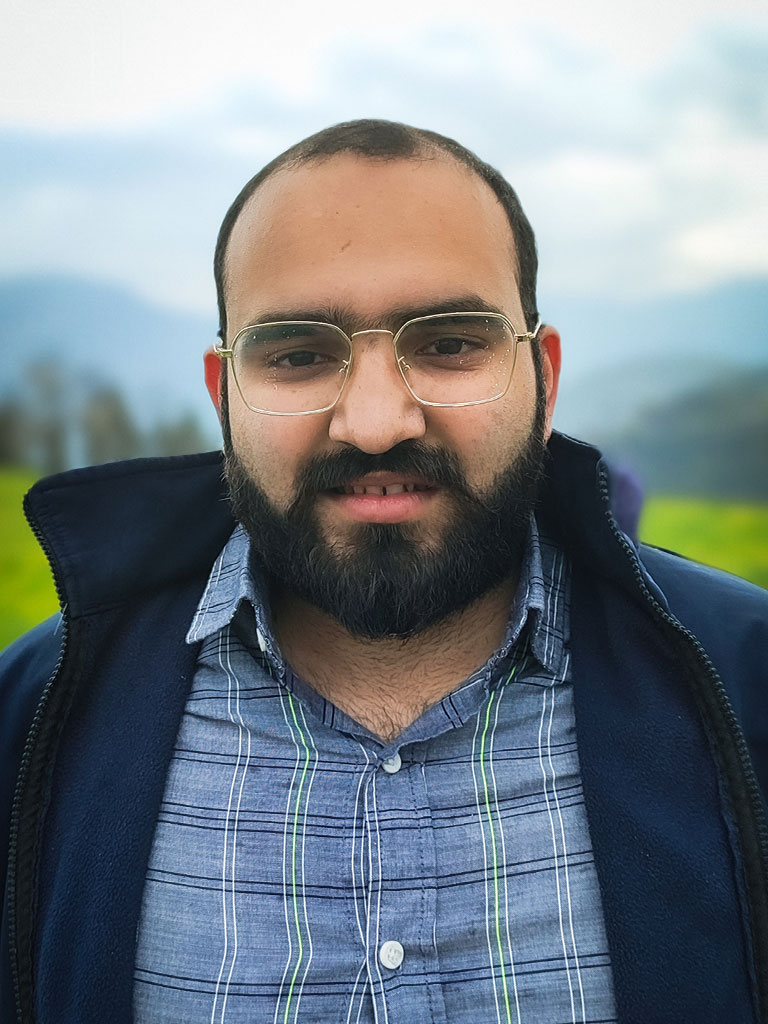
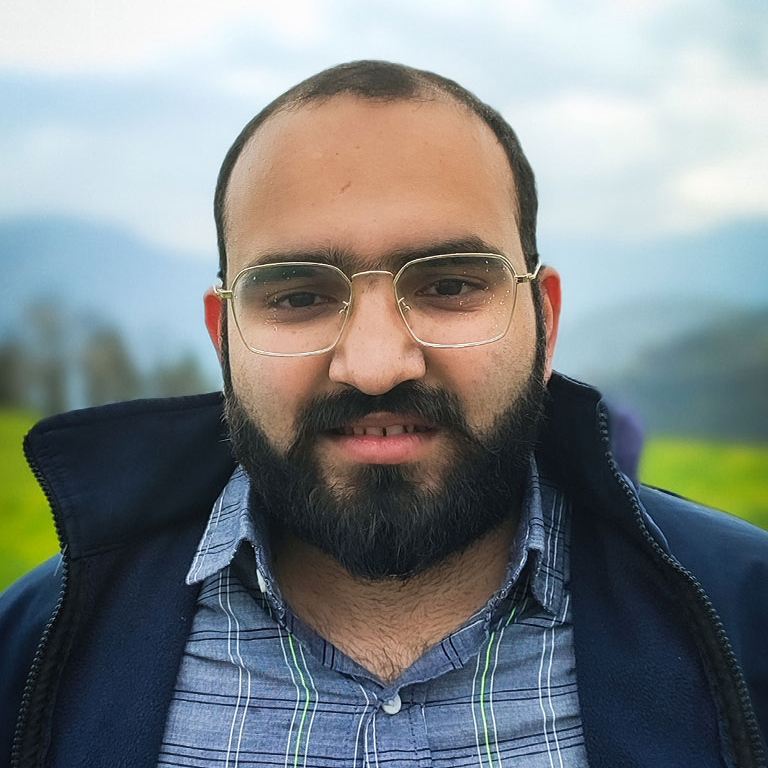
1

diff --git a/_pages/about.md b/_pages/about.md
@@ -238,17 +238,17 @@ in <i>Artificial Intelligence Review</i>, 2022.<br />
 
 
   <div style="flex: 1; min-width: 150px; max-width: 200px; margin: 10px; text-align: center;">
-    <img src="images/team/dechaotang.png" alt="Dechao Tang" style="width: 100%; max-width: 100px; height: auto; border-radius: 50%; border: 2px solid #eee;">
+    <img src="images/team/dechaotang.jpg" alt="Dechao Tang" style="width: 100%; max-width: 100px; height: auto; border-radius: 50%; border: 2px solid #eee;">
     <p><strong><a href="https://scholar.google.com/citations?hl=en&user=z_xZSLoAAAAJ" target="_blank">Dechao Tang</a></strong><br>Ph.D. Student, University of Münster</p>
   </div>
 
   <div style="flex: 1; min-width: 150px; max-width: 200px; margin: 10px; text-align: center;">
-    <img src="images/team/uzairkhan.png" alt="Uzair Khan" style="width: 100%; max-width: 100px; height: auto; border-radius: 50%; border: 2px solid #eee;">
+    <img src="images/team/uzairkhan.jpg" alt="Uzair Khan" style="width: 100%; max-width: 100px; height: auto; border-radius: 50%; border: 2px solid #eee;">
     <p><strong><a href="https://scholar.google.com/citations?user=PAsg9gsAAAAJ&hl=zh-CN&oi=sra" target="_blank">Uzair Khan</a></strong><br>Ph.D. Student, University of Verona</p>
   </div>
 
   <div style="flex: 1; min-width: 150px; max-width: 200px; margin: 10px; text-align: center;">
-    <img src="images/team/sihangxu.png" alt="Sihang Xu" style="width: 100%; max-width: 100px; height: auto; border-radius: 50%; border: 2px solid #eee;">
+    <img src="images/team/sihangxu.jpg" alt="Sihang Xu" style="width: 100%; max-width: 100px; height: auto; border-radius: 50%; border: 2px solid #eee;">
     <p><strong>Sihang Xu</strong><br>Master Student, Fujian University of Technology</p>
   </div>
   
